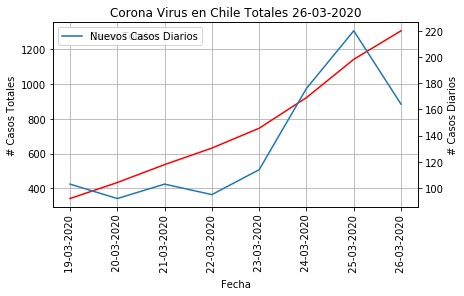
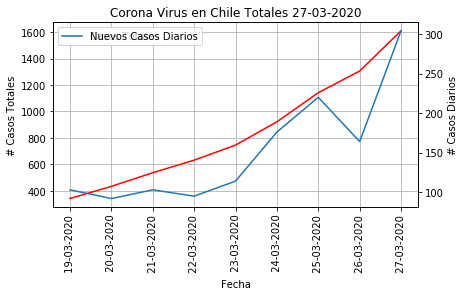
refresh

diff --git a/corona.py b/corona.py
@@ -71,9 +71,11 @@ dates = datetime.date.today().strftime("%d-%m-%Y")
 
 df['Dates'] =  dates
 
-
+#checking Data types
 df.dtypes
 
+
+#removing . in thousand separator
 df['Casos Totales'] = df['Casos Totales'].str.replace(".","")
 
 # Convert everything to float values
@@ -171,6 +173,8 @@ ax1.plot(daily['Fecha'],daily['Casos Totales'], label = "Casos Totales",color="r
 ax1.set_ylabel('# Casos Totales', color='black')
 ax1.set_xlabel('Fecha')
 ax1.legend(loc=0)
+plt.xticks(rotation=90)
+plt.tight_layout()
                
 ax2 = ax1.twinx()
 ax2.plot(daily['Fecha'],daily['Nuevos Casos Diarios'], label = "Nuevos Casos Diarios")
@@ -179,7 +183,7 @@ ax2.legend(loc=0)
 ax1.grid()
 plt.title(title2)
 plt.xticks(rotation=90)
-plt.savefig(img_file2)
+plt.savefig(img_file2, bbox_inches='tight')
 plt.show()
 
 

diff --git a/readme.md b/readme.md
@@ -209,3 +209,26 @@ Im pushing everything to a Live dashobard that you can find [here](https://datas
 | 18 | Total              |            164 |           1.306 | 100%              |            4 |            33 | 26-03-2020 |
 
 
+
+### 27-03-2020
+<img src="https://github.com/sundios/Chile-coronavirus/blob/master/Images/27-03-2020.png" width="60%" height="100%"> 
+
+|    | Region             |   Nuevos Casos |   Casos Totales | % Casos totales   |   Fallecidos |   Recuperados | Dates      |
+|---:|:-------------------|---------------:|----------------:|:------------------|-------------:|--------------:|:-----------|
+|  2 | Arica y Parinacota |              1 |               3 | 0 %               |            0 |             0 | 27-03-2020 |
+|  3 | Tarapacá           |              1 |               5 | 0 %               |            0 |             0 | 27-03-2020 |
+|  4 | Antofagasta        |              1 |              20 | 2 %               |            0 |             0 | 27-03-2020 |
+|  5 | Atacama            |              0 |               1 | 0 %               |            0 |             0 | 27-03-2020 |
+|  6 | Coquimbo           |              1 |              13 | 1 %               |            0 |             0 | 27-03-2020 |
+|  7 | Valparaíso         |             12 |              44 | 3 %               |            0 |             0 | 27-03-2020 |
+|  8 | Metropolitana      |             64 |             746 | 57 %              |            3 |             0 | 27-03-2020 |
+|  9 | O’Higgins          |              3 |              14 | 1 %               |            0 |             0 | 27-03-2020 |
+| 10 | Maule              |              1 |              31 | 2 %               |            0 |             0 | 27-03-2020 |
+| 11 | Ñuble              |              3 |             114 | 9 %               |            0 |             0 | 27-03-2020 |
+| 12 | Biobío             |             14 |             109 | 8 %               |            1 |             0 | 27-03-2020 |
+| 13 | Araucanía          |             37 |             111 | 8 %               |            0 |             0 | 27-03-2020 |
+| 14 | Los Ríos           |              3 |              14 | 1 %               |            0 |             0 | 27-03-2020 |
+| 15 | Los Lagos          |             16 |              60 | 5 %               |            0 |             0 | 27-03-2020 |
+| 16 | Aysén              |              1 |               2 | 0 %               |            0 |             0 | 27-03-2020 |
+| 17 | Magallanes         |              6 |              19 | 1 %               |            0 |             0 | 27-03-2020 |
+| 18 | Total              |            164 |            1306 | 100%              |            4 |            33 | 27-03-2020 |
